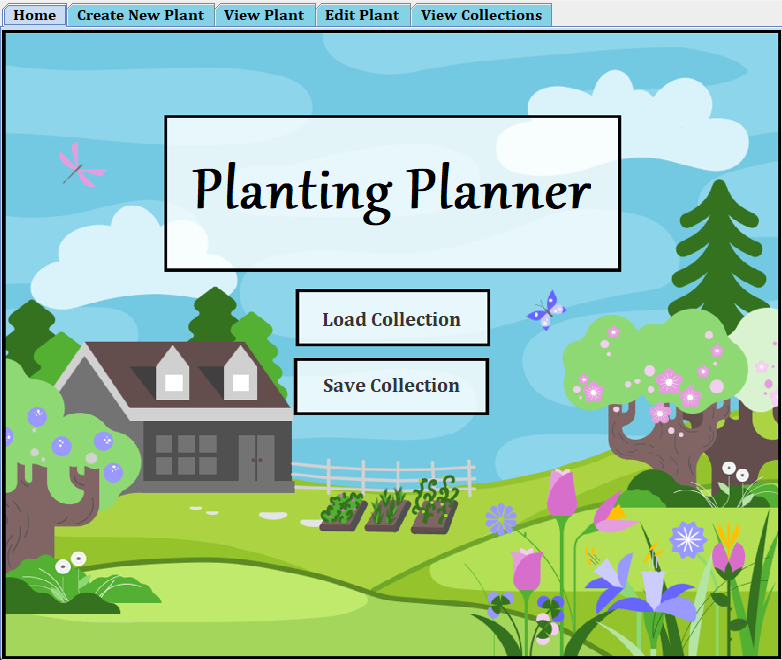
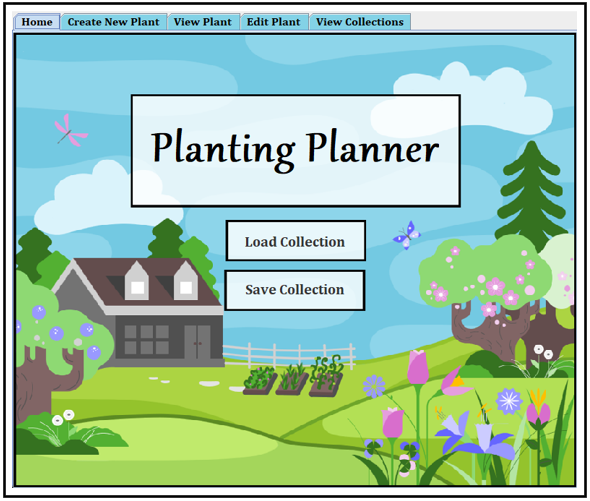
Updated README formatting

diff --git a/README.md b/README.md
@@ -16,6 +16,8 @@ I’ve always had a love for plants and gardening so my collection has grown imm
 
 Creating **Planting Planner** is a way for me to build a space where I and other users can track, document, and care for plants in a thoughtful and organized way. It is like a digital garden journal that can help support mindful and consistent plant care, even when life gets hectic. 
 
+---
+
 ![Home Page](HomePageVisual.png) <br>
 
 ---
@@ -44,7 +46,10 @@ Creating **Planting Planner** is a way for me to build a space where I and other
 - You can view any plant in your collection in the "View Plant" tab by inserting the name of the plant and clicking on enter. The information regarding that plant will display in the fields below.
 - You can edit any plant fields in the "Edit Plant" tab by inserting the name of your plant and clicking the "Enter" button. You can add notes by typing them in the text box underneath the notes display and clicking "Add". You can remove any notes by selecting the note in the list and clicking "Remove". Once all changes are made, click "Save" to save your changes
 
+---
+
 ![Tabs](TabsVisual.png) <br>
+
 ---
 
 ## *Phase 4: Task 2*
